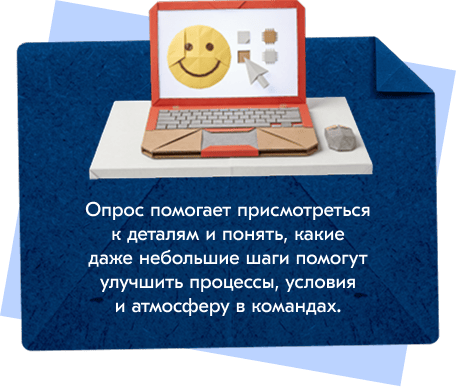
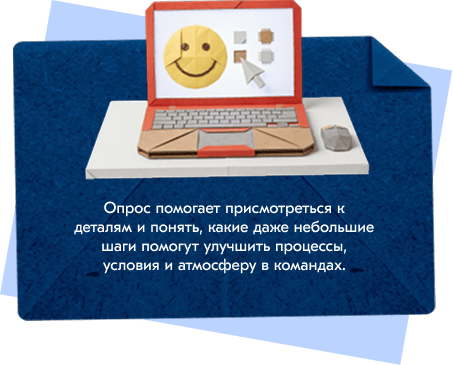
small

diff --git a/root/index.html b/root/index.html
@@ -5,7 +5,7 @@
     <meta name="keywords" content="">
     <meta name="description" content="">
     <title>Ozon - Вовлечённость</title>
-    <link rel="preload" as="image" href="/ozon/root/images/intro.jpg" fetchpriority="high">
+    <link rel="preload" as="image" href="ozon/root/images/intro.jpg" fetchpriority="high">
 <!--    <link href="https://fonts.googleapis.com/css?family=Open+Sans:300,300i,400,400i,600,600i,700,700i,800,800i&amp;subset=cyrillic" rel="stylesheet">-->
     <link href="css/style.css" rel="stylesheet" type="text/css"><!--was generated from sass-->
     <meta name="viewport" content="width=device-width, initial-scale=1.0, maximum-scale=1.0, user-scalable=no">
@@ -75,7 +75,7 @@
             <img src="/ozon/root/images/info-title.png" alt="">
         </div>
         <div class="section-info__text">
-            Всё складывается из действий, идей,<br/> решений и маленьких изменений <br/> каждого из нас!
+            Всё складывается из действий,<br/> идей, решений и маленьких<br/> изменений каждого из нас!
         </div>
     <div class="section-info__bg">
         <img class="hide-tablet" src="/ozon/root/images/info-bg.jpg" alt="">
@@ -154,7 +154,10 @@
             <div class="section-blue3__content_info">Оригами, которое мы собираем каждый день</div>
             <div class="section-blue3__content_text">
                 Вовлечённость — это когда ты неравнодушен
-                к тому, что делаешь. Тебе не всё равно, каким получится результат. И ты прилагаешь максимум усилий, чтобы итог был просто ВАУ!
+                к тому, что делаешь.
+            </div>
+            <div class="section-blue3__content_text">
+                 Тебе не всё равно, каким получится результат. И ты прилагаешь максимум усилий, чтобы итог был просто ВАУ!
             </div>
         </div>
         <div class="section-blue3__image animate">
@@ -222,7 +225,7 @@
                 <img src="/ozon/root/images/banner-men.png" alt="">
             </div>
             <div class="banner__info">
-                <div class="banner__info_text"><b>Не забудь: 15 минут</b> твоего внимания,
+                <div class="banner__info_text"><b>Не забудь: 15 минут</b> твоего внимания, <br/> 
                     и все важные детали соединятся!</div>
                 <div class="banner__info_title">
                     <span class="hide-tablet">С 20 июля по 4 августа</span>
@@ -238,16 +241,16 @@
             
             <div class="section-game" id="details">
     <div class="container">
-        <h2>Потренируйся замечать <br/> важные детали </h2>
+        <h2>Потренируйся замечать важные детали </h2>
         <div class="game">
             <div class="game__info">
                 <div class="game__info_title">Ищи пары!</div>
                 <div class="game__info_text animate">Найдёшь все?<br/>
                     Сможешь выиграть подарки</div>
                 <div class="game__info_box">
-                    <p>А среди всех, кто справился,<br/>
-                        мы рандомно разыграем:</p>
-                    <b>100 промокодов на 1000 баллов на Ozon</b> 
+                    <p>А среди всех, кто справился, <br/>
+                        мы рандомно разыграем:</p> 
+                    <b>100 промокодов <br/> на 1000 баллов на Ozon</b> 
                 </div>
             </div>
             <div class="game-container">
@@ -289,13 +292,13 @@
 		<div class="container">
 			<div class="section-active__content_box1">
 				<div class="section-active__content_box1-top">Условие одно:</div>
-				<div class="section-active__content_box1-center">75% коллегам</div>
+				<div class="section-active__content_box1-center">75% коллег</div>
 				<div class="section-active__content_box1-bottom">из всей вашей дирекции <b>нужно пройти опрос вовлечённости</b></div>
 			</div>
 			<div class="section-active__content_box2">
 				<div class="section-active__content_box2-top">
 					<div class="section-active__content_box2-top--title">Призовой фонд:</div>
-					<div class="section-active__content_box2-top--text">600 промокодов
на 1000 баллов на Ozon</div>
+					<div class="section-active__content_box2-top--text">600 промокодов <br/> на 1000 баллов на Ozon</div>
 				</div>
 				<div class="section-active__content_box2-content">
 					<b>Станьте первыми!</b><br/>
@@ -303,7 +306,7 @@
 					по дирекции в моменте можно
 					по своей индивидуальной ссылке
 					в почте или по баннеру на <a href="https://staff.o3t.ru/" target="_blank">Staff</a>.
-					А итоги розыгрышей ищи в канале <a href="https://chatzone.o3t.ru/ozon/channels/announcements" target="_blank">announcements.</a>
+					А итоги розыгрышей ищи в канале <a href="https://chatzone.o3t.ru/ozon/channels/announcements" target="_blank">announcements</a>.
 				</div>
 			</div>
 		</div>
@@ -329,15 +332,15 @@
 			</div>
 			<div class="section-7world__content_box2-content">
 				<b>Что делать:</b><br/>
-				<p><span>/</span> следи за постами в <a href="https://chatzone.o3t.ru/ozon/channels/announcements" target="_blank">announcements.</a> — ищи слова с хештегом #
+				<p><span>/</span> следи за постами в <a href="https://chatzone.o3t.ru/ozon/channels/announcements" target="_blank">announcements</a> — <br/> ищи слова с хештегом #
 				</p>
 				<p><span>/</span>собери из 7 слов предложение со смыслом</p>
-				<p><span>/</span>сложи фразу и отправь её в <a href="https://forms.ozon.ru/form/2aedcc49-ff55-4497-b425-7ddf3878ce07 " target="_blank">эту форму.</a></p>
+				<p><span>/</span>сложи фразу и отправь её в <a href="https://forms.ozon.ru/form/2aedcc49-ff55-4497-b425-7ddf3878ce07 " target="_blank">эту форму</a> </p>
 			</div>
 			<div class="section-7world__content_box2-top">
 				<div class="section-7world__content_box2-top--title">А среди всех, кто справился,<br/>
 					мы рандомно разыграем:</div>
-				<div class="section-7world__content_box2-top--text">100 промокодов<br/> на 1000 баллов на Ozon</div>
+				<div class="section-7world__content_box2-top--text">100 промокодов <br/> на 1000 баллов на Ozon</div>
 			</div>
 		</div>
 	</div>